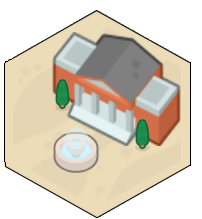
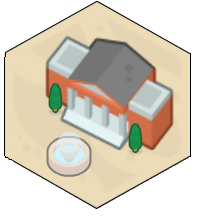
culturel + patch musee

Changed region(s): [[0.0, 0.0, 0.9505, 1.0]]

diff --git a/front/src/app/game/game.page.ts b/front/src/app/game/game.page.ts
@@ -35,13 +35,9 @@ export class GamePage implements OnInit {
   public hoverDescription = '';
   public hoverActions = '';
 
-  public position = {x: 100, y: 100};
-
   private importedTuiles;
   public currentSeason;
 
-
-  //Animation déplacement
   public deplacement: Animation;
 
   public action = 'WalkingManPositive';
@@ -52,7 +48,6 @@ export class GamePage implements OnInit {
 
   public positionPlayer = 'top:' + this.y + 'px; left:' + this.x+ 'px;';
 
-
   constructor(
     private tuiles: TuilesService,
     public persoService: PersoService,
@@ -62,24 +57,23 @@ export class GamePage implements OnInit {
 
   async ngOnInit() {
 
-    this.persoService.dev('Paris', 'judaisme', 'homme', '4', 'David Salomon');
+    this.persoService.dev('Rio de Janeiro', 'judaisme', 'homme', '4', 'David Salomon');
     this.refreshAll();
 
-    console.log(this.persoService.perso.localization);
     this.importedTuiles = this.tuiles.getData(this.persoService.perso.localization);
     this.type = this.tuiles.getType(this.persoService.perso.localization);
     for (let k = 0; k < 5; k++) {
       for (let i = 0; i < 10; i++) {
         if (!i && !k) {
-          this.matrix[k].push({name: 'aeroport', left:0, top:0});
+          this.matrix[k].push({name: 'aeroport', left:0, top:0, type: this.type});
         } else if (i === 5 && k === 1) {
-          this.matrix[k].push({name: 'religion', left:401, top:64});
+          this.matrix[k].push({name: 'religion', left:401, top:64, type: this.type});
         } else if (i === 6 && k === 2) {
-          this.matrix[k].push({name: 'mairie', left:438, top:128});
+          this.matrix[k].push({name: 'mairie', left:438, top:128, type: this.type});
         } else if (i === 5 && k === 2) {
-          this.matrix[k].push({name: 'aeroport', left:365, top:128});
+          this.matrix[k].push({name: this.persoService.perso.localization, left:365, top:128, type: 'culturel'});
         } else if (i === 5 && k === 3) {
-          this.matrix[k].push({name: 'justice', left:301, top:192});
+          this.matrix[k].push({name: 'justice', left:301, top:192, type: this.type});
         } else {
           const retour = this.tuiles.chooseAleatTuile(this.matrix, this.importedTuiles);
           this.matrix = retour.mat;
@@ -87,8 +81,6 @@ export class GamePage implements OnInit {
         }
       }
     }
-    console.log(this.persoService.perso.name);
-    console.log(this.persoService.perso);
     this.roulette.setRoulette(["Test","These","Nuts","Jhonny"],[0.3,0.2,0.4,0.1]);
 
   }
@@ -209,36 +201,38 @@ export class GamePage implements OnInit {
   };
 
   //Animation déplacement
-  deplacementPlay = (x, y) => {
-    if(!this.isMoving){
-      this.isMoving = true;
-      x += 13;
-      y -= 20;
-      this.positionPlayer = '';
-      let elt = document.querySelector('#player');
-      this.action = 'WalkingManPositive';
+  deplacementPlay = (x, y, name) => {
 
-      let start = 'translateX(' + this.x + 'px) translateY(' + this.y + 'px)'
-      let finish = 'translateX(' + x + 'px) translateY(' + y + 'px)';
-
-      this.deplacement = this.animationCtrl.create()
-      .addElement(elt)
-      .duration(25*(Math.abs(x-this.x)+Math.abs(y-this.y)))
-      .iterations(1)
-      .direction('alternate')
-      .keyframes([
-        {offset: 0, transform: start},
-        {offset: 1, transform: finish}
-      ]);
-
-      this.deplacement.play().then( () => {
+    if(Math.floor(Math.abs(this.x-13-x)/73)<2 && Math.floor(Math.abs(this.y+20-y)/64)<2
+      && Math.floor(Math.abs(this.x-13-x)/73)+Math.floor(Math.abs(this.y+20-y)/64)!== 2) {
+      if (!this.isMoving) {
+        this.isMoving = true;
+        x += 13;
+        y -= 20;
+        this.positionPlayer = '';
+        let elt = document.querySelector('#player');
         this.action = 'WalkingManPositive';
-        this.x = x;
-        this.y = y;
-        this.isMoving = false;
-      });
+
+        let start = 'translateX(' + this.x + 'px) translateY(' + this.y + 'px)'
+        let finish = 'translateX(' + x + 'px) translateY(' + y + 'px)';
+
+        this.deplacement = this.animationCtrl.create()
+          .addElement(elt)
+          .duration(25 * (Math.abs(x - this.x) + Math.abs(y - this.y)))
+          .iterations(1)
+          .direction('alternate')
+          .keyframes([
+            {offset: 0, transform: start},
+            {offset: 1, transform: finish}
+          ]);
+
+        this.deplacement.play().then(() => {
+          this.action = 'WalkingManPositive';
+          this.x = x;
+          this.y = y;
+          this.isMoving = false;
+        });
+      }
     }
-    
-    
   }
 }

diff --git a/front/src/app/game/game.page.html b/front/src/app/game/game.page.html
@@ -36,27 +36,27 @@
         <div class="container">
           <ion-img id="player" [src]="'./assets/img/animatedMan/' + action + '.gif'" [style]="'position: absolute;' + positionPlayer"></ion-img>
 
-          <ion-img *ngFor="let col of matrix[0]" [src]="'./assets/tuiles/' + type + '/' + col.name + '.png'"
-                   (mouseenter)="hoverEnter(col.name)" (mouseleave)="hoverLeave()" (click)="deplacementPlay(col.left, col.top)" class="tuile"></ion-img>
+          <ion-img *ngFor="let col of matrix[0]" [src]="'./assets/tuiles/' + col.type + '/' + col.name + '.png'"
+                   (mouseenter)="hoverEnter(col.name)" (mouseleave)="hoverLeave()" (click)="deplacementPlay(col.left, col.top, col.name)" class="tuile"></ion-img>
           <br>
-          <ion-img *ngFor="let col of matrix[1]" [src]="'./assets/tuiles/' + type + '/' + col.name + '.png'"
-                   (mouseenter)="hoverEnter(col.name)" (mouseleave)="hoverLeave()" (click)="deplacementPlay(col.left, col.top)" class="tuile"></ion-img>
+          <ion-img *ngFor="let col of matrix[1]" [src]="'./assets/tuiles/' + col.type + '/' + col.name + '.png'"
+                   (mouseenter)="hoverEnter(col.name)" (mouseleave)="hoverLeave()" (click)="deplacementPlay(col.left, col.top, col.name)" class="tuile"></ion-img>
           <br>
-          <ion-img *ngFor="let col of matrix[2]" [src]="'./assets/tuiles/' + type + '/' + col.name + '.png'"
-                   (mouseenter)="hoverEnter(col.name)" (mouseleave)="hoverLeave()" (click)="deplacementPlay(col.left, col.top)" class="tuile"></ion-img>
+          <ion-img *ngFor="let col of matrix[2]" [src]="'./assets/tuiles/' + col.type + '/' + col.name + '.png'"
+                   (mouseenter)="hoverEnter(col.name)" (mouseleave)="hoverLeave()" (click)="deplacementPlay(col.left, col.top, col.name)" class="tuile"></ion-img>
           <br>
-          <ion-img *ngFor="let col of matrix[3]" [src]="'./assets/tuiles/' + type + '/' + col.name + '.png'"
-                   (mouseenter)="hoverEnter(col.name)" (mouseleave)="hoverLeave()" (click)="deplacementPlay(col.left, col.top)" class="tuile"></ion-img>
+          <ion-img *ngFor="let col of matrix[3]" [src]="'./assets/tuiles/' + col.type + '/' + col.name + '.png'"
+                   (mouseenter)="hoverEnter(col.name)" (mouseleave)="hoverLeave()" (click)="deplacementPlay(col.left, col.top, col.name)" class="tuile"></ion-img>
           <br>
-          <ion-img *ngFor="let col of matrix[4]" [src]="'./assets/tuiles/' + type + '/' + col.name + '.png'"
-                   (mouseenter)="hoverEnter(col.name)" (mouseleave)="hoverLeave()" (click)="deplacementPlay(col.left, col.top)" class="tuile"></ion-img>
+          <ion-img *ngFor="let col of matrix[4]" [src]="'./assets/tuiles/' + col.type + '/' + col.name + '.png'"
+                   (mouseenter)="hoverEnter(col.name)" (mouseleave)="hoverLeave()" (click)="deplacementPlay(col.left, col.top, col.name)" class="tuile"></ion-img>
         </div>
       </div>
     </ion-col>
     <ion-col id="right-panel">
       <ion-row style="height:50%;">
         <ion-col>
-          infos case actuelle
+          {{current}}
         </ion-col>
       </ion-row>
       <ion-row style="height:50%;">

diff --git a/front/src/app/shared/services/tuiles.service.ts b/front/src/app/shared/services/tuiles.service.ts
@@ -1,4 +1,5 @@
 import {Injectable} from '@angular/core';
+import {PersoService} from './perso.service';
 
 @Injectable({
   providedIn: 'root'
@@ -119,7 +120,7 @@ export class TuilesService {
         banque: 1,
         stade: 1,
         aeroport: 1,
-        vide: 10
+        vide: 11
       }
     }],
     [{
@@ -297,7 +298,6 @@ export class TuilesService {
       }
     }]
   ];
-
   public tuiles = [
     [{
       name: 'Hospital',
@@ -439,8 +439,9 @@ export class TuilesService {
     }],
   ];
 
-  constructor() {
-  }
+  constructor(
+    private perso: PersoService
+  ) {}
 
   getData = (name) => {
     const data = [];
@@ -521,7 +522,7 @@ export class TuilesService {
     for (const line of matrix) {
       if (line.length !== 10) {
         col = line.length;
-        line.push({name: tuiles[i].name, top: 64 * row, left: (row % 2) * 36 + 73 * col});
+        line.push({name: tuiles[i].name, top: 64 * row, left: (row % 2) * 36 + 73 * col, type: this.getType(this.perso.perso.localization)});
         tuiles.splice(i, 1);
         return {mat: matrix, ref: tuiles};
       } else {

diff --git a/front/src/app/city-selection/city-selection.page.html b/front/src/app/city-selection/city-selection.page.html
@@ -14,7 +14,7 @@
   <ion-img src="./assets/img/mappoint.png" style="top: 25px; left: 478px;" title="Reykjavik" (click)="select('Reykjavik')"></ion-img>
   <ion-img src="./assets/img/mappoint.png" style="top: 107px; left: 308px;" title="New York" (click)="select('New York')"></ion-img>
   <ion-img src="./assets/img/mappoint.png" style="top: 404px; left: 1029px;" title="Sydney" (click)="select('Sydney')"></ion-img>
-  <ion-img src="./assets/img/mappoint.png" style="top: 364px; left: 375px;" title="Sao Paulo" (click)="select('Sao Paulo')"></ion-img>
+  <ion-img src="./assets/img/mappoint.png" style="top: 364px; left: 375px;" title="Rio de Janeiro" (click)="select('Rio de Janeiro')"></ion-img>
   <ion-img src="./assets/img/mappoint.png" style="top: 60px; left: 645px;" title="Moscow" (click)="select('Moscow')"></ion-img>
   <ion-img src="./assets/img/mappoint.png" style="top: 175px; left: 795px;" title="New Delhi" (click)="select('New Delhi')"></ion-img>
   <ion-img src="./assets/img/mappoint.png" style="top: 225px; left: 520px;" title="Ouagadougou" (click)="select('Ouagadougou')"></ion-img>
